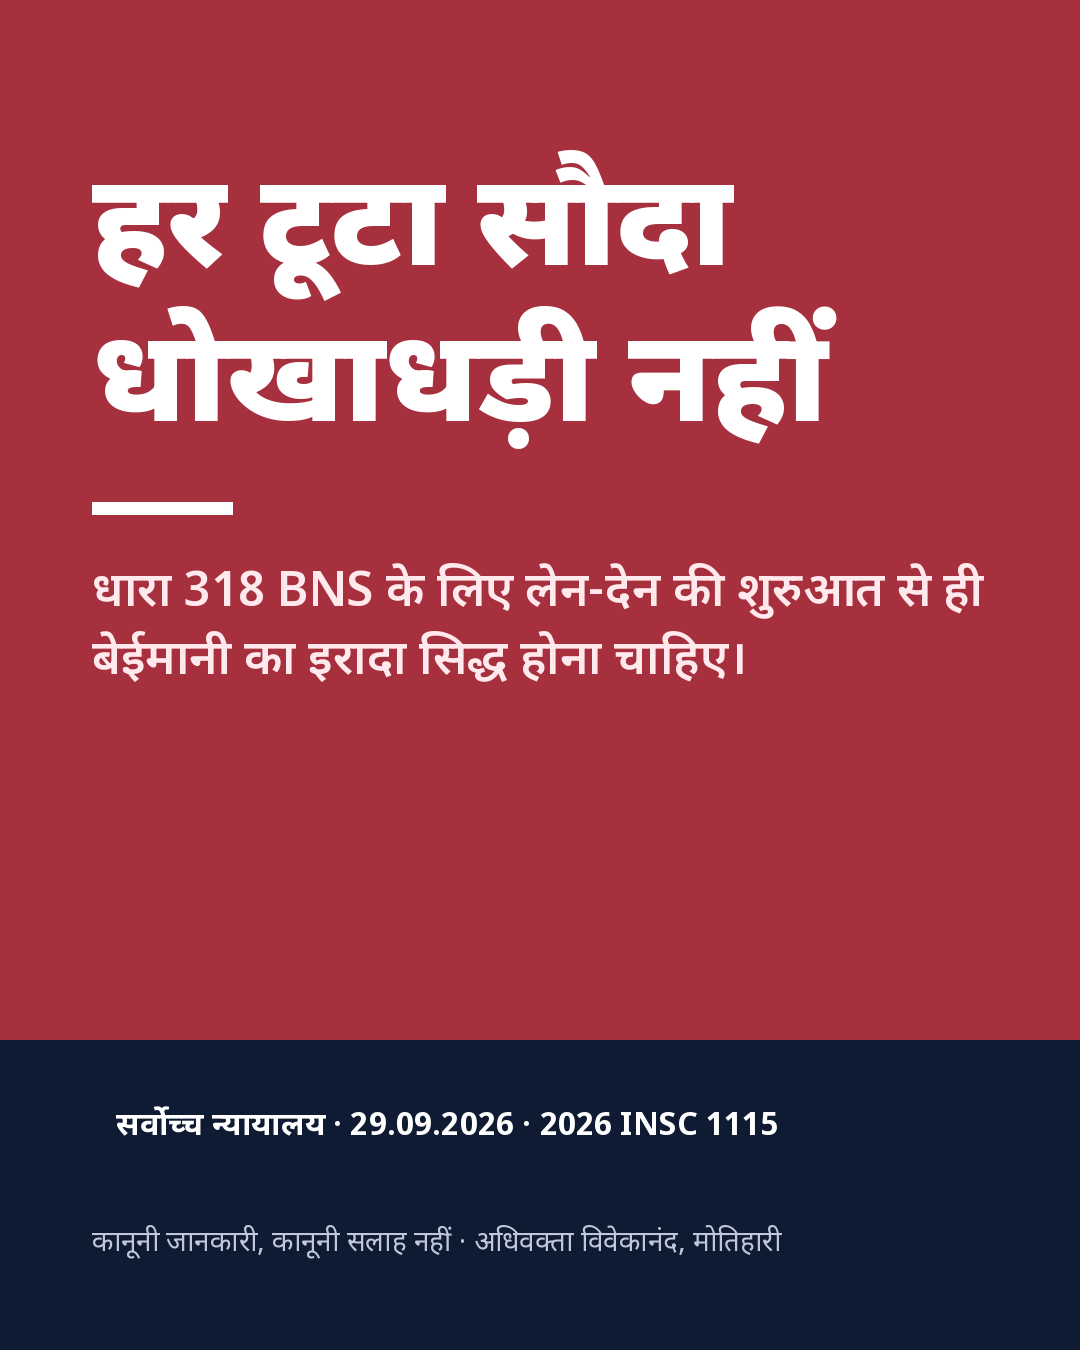
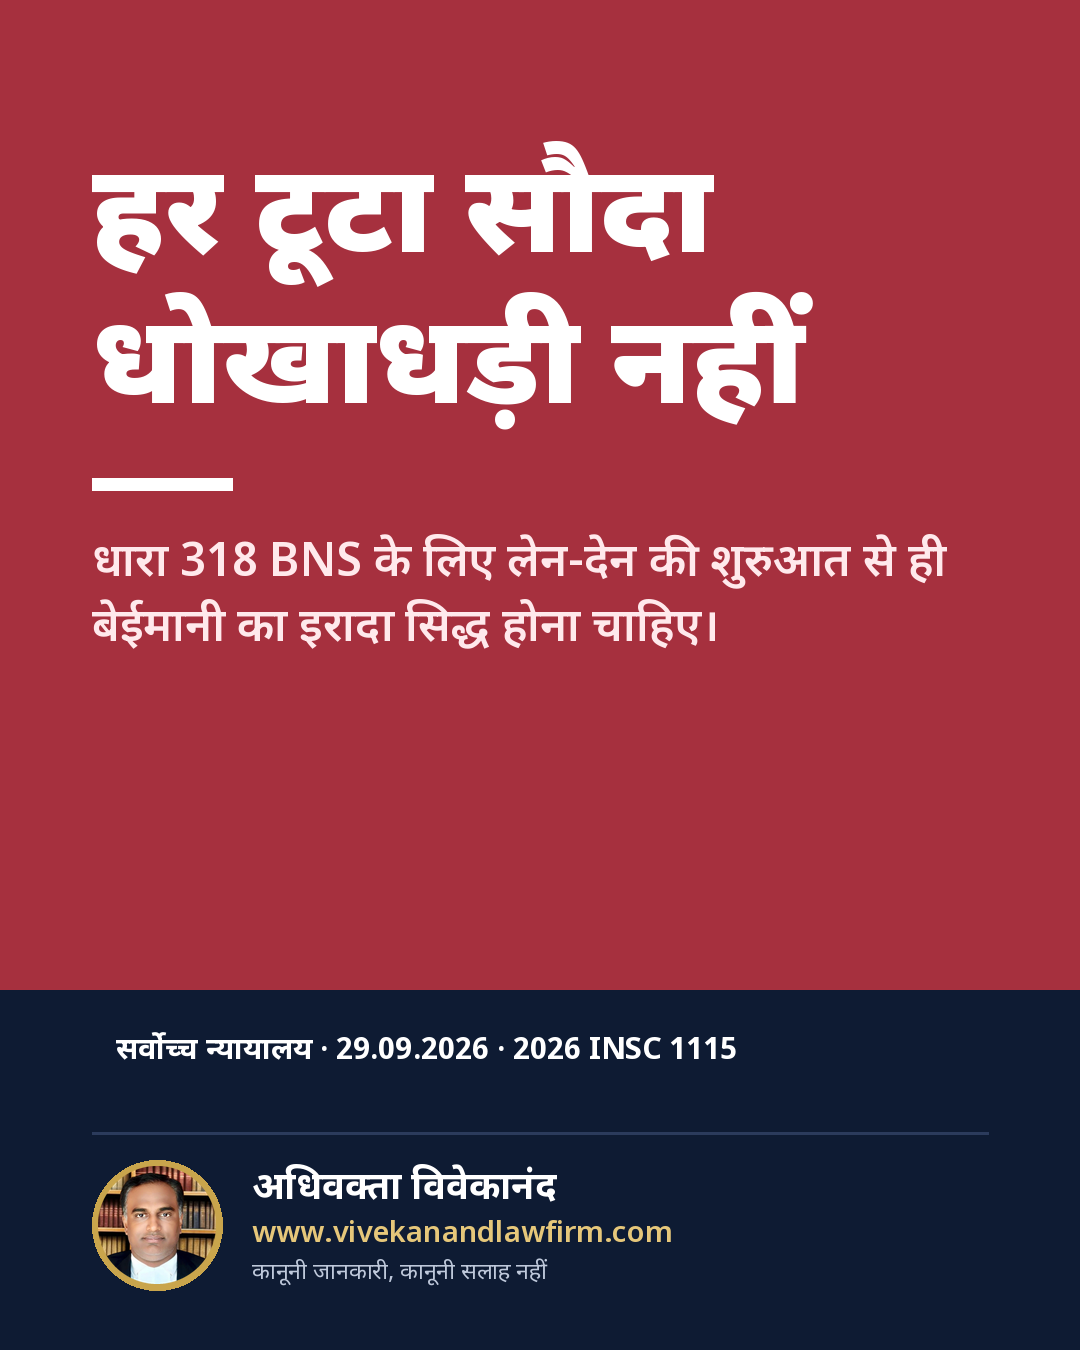
Post cards: signature bar with portrait, name and website
Claude-Session: https://claude.ai/code/session_01Si8MYnWgMiXYfd4s2mynEU

Changed region(s): [[0.0, 0.7156, 1.0, 0.9644], [0.0611, 0.0933, 0.7944, 0.3422], [0.0917, 0.3422, 0.9167, 0.5289]]

diff --git a/post-cards/_tools/render_card.py b/post-cards/_tools/render_card.py
@@ -7,7 +7,7 @@ spec = {
   "align": "left" | "center",              # optional, default per style
   "motif": "land|clock|phone|home|money|school|bag|book",   # S5 / S8
   "pages": [                                # 1 page = single image, 2-10 = carousel
-     {"headline": str, "subline": str, "tag": str, "footer": str, "hero": str (S6 only)}
+     {"headline": str, "subline": str, "tag": str, "hero": str (S6 only), "note": str (optional)}
      # carousel inner pages may use "body" instead of "subline" and "num" like "3/8"
   ]
 }
@@ -89,6 +89,44 @@ def tag_in_box(draw, x, y, w, h, text, color, weight='700', size=30, align='cent
         lx = x + (w - tw) / 2 if align == 'center' else x + 24
         draw.text((lx, ty + i * step), l, font=f, fill=hexc(color))
 
+
+
+# ---------------------------------------------------------------- signature bar
+SIG_NAME = "अधिवक्ता विवेकानंद"
+SIG_WEB = "www.vivekanandlawfirm.com"
+SIG_NOTE = "कानूनी जानकारी, कानूनी सलाह नहीं"
+SIG_TOP = 1160      # top of the portrait
+SIG_SIZE = 130      # portrait diameter
+_portrait = None
+
+
+def portrait():
+    global _portrait
+    if _portrait is None:
+        import os
+        p = os.path.join(os.path.dirname(FONT_DIR.rstrip('/')), 'portrait.png')
+        _portrait = Image.open(p).convert('RGBA') if os.path.exists(p) else False
+    return _portrait
+
+
+def sig_bar(img, d, x, cols, divider=None, divider_w=None, note=None, top=None):
+    """Elegant signature: gold-ringed portrait, name, website, one-line note."""
+    name_c, web_c, note_c, ring_c = cols
+    T = top or SIG_TOP
+    if divider:
+        d.rectangle([x, T - 28, x + (divider_w or (W - 2 * x)), T - 26], fill=hexc(divider))
+    pr = portrait()
+    tx = x
+    if pr:
+        ring = 4
+        d.ellipse([x, T, x + SIG_SIZE, T + SIG_SIZE], fill=hexc(ring_c))
+        inner = SIG_SIZE - 2 * (ring + 2)
+        ph = pr.resize((inner, inner), Image.LANCZOS)
+        img.paste(ph, (x + ring + 2, T + ring + 2), ph)
+        tx = x + SIG_SIZE + 30
+    d.text((tx, T + 4), SIG_NAME, font=F('700', 38), fill=hexc(name_c))
+    d.text((tx, T + 56), SIG_WEB, font=F('600', 29), fill=hexc(web_c))
+    d.text((tx, T + 98), note or SIG_NOTE, font=F('400', 23), fill=hexc(note_c))
 
 # ---------------------------------------------------------------- motifs (wordless)
 def motif(draw, kind, cx, cy, s, c1, c2, c3, line_only=False):
@@ -189,10 +227,12 @@ def render_page(st, pg, align, motif_kind, carousel, idx):
     d = ImageDraw.Draw(img)
     head = pg.get('headline', '')
     sub = pg.get('subline') or pg.get('body', '')
-    tag, foot, num, hero = pg.get('tag', ''), pg.get('footer', ''), pg.get('num', ''), pg.get('hero', '')
+    tag, num, hero = pg.get('tag', ''), pg.get('num', ''), pg.get('hero', '')
+    note = pg.get('note')  # optional replacement for the one-line note in the signature
     inner = carousel and idx > 0  # cover keeps full look
     M = 92  # side margin
     TW = W - 2 * M
+    GOLD = '#C9A54C'
 
     def number(col):
         if num:
@@ -202,14 +242,13 @@ def render_page(st, pg, align, motif_kind, carousel, idx):
     if st == 'S1':
         d.rectangle([0, 0, W, H], fill=hexc('#0E1B33'))
         d.rectangle([0, 0, 22, H], fill=hexc('#A6303E'))
-        d.rectangle([M, 210, M + 130, 222], fill=hexc('#A6303E'))
-        y = block(d, M, 270, TW, head, '800', 96, '#FFFFFF', align, 4, 1.3)
-        block(d, M, y + 40, TW, sub, '400', 46, '#BEC8DA', align, 6 if inner else 4, 1.42)
+        d.rectangle([M, 190, M + 130, 202], fill=hexc('#A6303E'))
+        y = block(d, M, 250, TW, head, '800', 94, '#FFFFFF', align, 4, 1.3)
+        block(d, M, y + 36, TW, sub, '400', 44, '#BEC8DA', align, 6 if inner else 4, 1.42)
         if tag:
-            pill(d, M, 1010, TW, 96, fill='#A6303E', r=20)
-            tag_in_box(d, M, 1010, TW, 96, tag, '#FFFFFF')
-        d.rectangle([M, 1190, W - M, 1192], fill=hexc('#3A4A6B'))
-        block(d, M, 1215, TW, foot, '400', 28, '#BEC8DA', align, 2, 1.3, 22)
+            pill(d, M, 1006, TW, 92, fill='#A6303E', r=20)
+            tag_in_box(d, M, 1006, TW, 92, tag, '#FFFFFF')
+        sig_bar(img, d, M, ('#FFFFFF', '#E6C77A', '#BEC8DA', GOLD), divider='#2B3B5C', note=note)
         number('#BEC8DA')
     elif st == 'S2':
         d.rectangle([0, 0, W, H], fill=hexc('#F4EEE2'))
@@ -217,108 +256,108 @@ def render_page(st, pg, align, motif_kind, carousel, idx):
         d.line([(60, 60), (170, 60)], fill=hexc('#C2892B'), width=10)
         d.line([(W - 60, H - 60), (W - 60, H - 170)], fill=hexc('#C2892B'), width=10)
         d.line([(W - 60, H - 60), (W - 170, H - 60)], fill=hexc('#C2892B'), width=10)
-        y = block(d, M, 250, TW, head, '700', 92, '#1F2633', align, 4, 1.32)
+        y = block(d, M, 230, TW, head, '700', 90, '#1F2633', align, 4, 1.32)
         rx = M if align == 'left' else (W - 160) // 2
         d.rectangle([rx, y + 30, rx + 160, y + 40], fill=hexc('#C2892B'))
-        block(d, M, y + 80, TW, sub, '400', 46, '#3B4252', align, 6 if inner else 4, 1.45)
+        block(d, M, y + 80, TW, sub, '400', 44, '#3B4252', align, 6 if inner else 4, 1.45)
         if tag:
-            pill(d, M, 1020, TW, 96, outline='#1F2633', r=6, width=3)
-            tag_in_box(d, M, 1020, TW, 96, tag, '#1F2633', '600')
-        block(d, M, 1180, TW, foot, '400', 28, '#5A5F69', align, 2, 1.3, 22)
+            pill(d, M, 1000, TW, 92, outline='#1F2633', r=6, width=3)
+            tag_in_box(d, M, 1000, TW, 92, tag, '#1F2633', '600')
+        sig_bar(img, d, M, ('#1F2633', '#A87420', '#5A5F69', '#C2892B'), divider='#D9CDB4', divider_w=720, note=note)
         number('#C2892B')
     elif st == 'S3':
         d.rectangle([0, 0, W, H], fill=hexc('#A6303E'))
-        y = block(d, M, 150 if not inner else 200, TW, head, '900', 128 if not inner else 92, '#FFFFFF', align, 4, 1.22, 60)
-        d.rectangle([M, y + 40, M + 140, y + 52] if align == 'left' else [W // 2 - 70, y + 40, W // 2 + 70, y + 52], fill=hexc('#FFFFFF'))
-        block(d, M, y + 100, TW, sub, '500', 48, '#FFE9EC', align, 6 if inner else 4, 1.42)
-        d.rectangle([0, 1040, W, 1350], fill=hexc('#0E1B33'))
+        y = block(d, M, 140 if not inner else 190, TW, head, '900', 124 if not inner else 90, '#FFFFFF', align, 4, 1.22, 60)
+        d.rectangle([M, y + 36, M + 140, y + 48] if align == 'left' else [W // 2 - 70, y + 36, W // 2 + 70, y + 48], fill=hexc('#FFFFFF'))
+        block(d, M, y + 92, TW, sub, '500', 46, '#FFE9EC', align, 6 if inner else 4, 1.42)
+        d.rectangle([0, 990, W, H], fill=hexc('#0E1B33'))
         if tag:
-            tag_in_box(d, M, 1080, TW, 100, tag, '#FFFFFF', '700', 32, 'center' if align == 'center' else 'left')
-        block(d, M, 1225, TW, foot, '400', 28, '#BEC8DA', align, 2, 1.3, 22)
+            tag_in_box(d, M, 1010, TW, 90, tag, '#FFFFFF', '700', 30, 'center' if align == 'center' else 'left')
+        sig_bar(img, d, M, ('#FFFFFF', '#E6C77A', '#BEC8DA', GOLD), divider='#2B3B5C', note=note)
         number('#FFFFFF')
     elif st == 'S4':
         d.rectangle([0, 0, W, H], fill=hexc('#0F4C5C'))
-        bx0, by0, bx1 = 70, 150, W - 70
-        f, lines, size = fit(d, head, '800', 90, bx1 - bx0 - 120, 4, 44)
+        bx0, by0, bx1 = 70, 140, W - 70
+        f, lines, size = fit(d, head, '800', 88, bx1 - bx0 - 120, 4, 44)
         step = int(size * 1.3)
         by1 = by0 + 90 + step * len(lines)
         d.rounded_rectangle([bx0, by0, bx1, by1], radius=60, fill=hexc('#DDEFE8'))
         tx = bx0 + 120 if align == 'left' else bx0 + 60
         d.polygon([(tx, by1 - 2), (tx + 90, by1 - 2), (tx + 10, by1 + 90)], fill=hexc('#DDEFE8'))
         block(d, bx0 + 60, by0 + 40, bx1 - bx0 - 120, head, '800', size, '#0B2F38', align, 4, 1.3, 44)
-        block(d, M, by1 + 140, TW, sub, '400', 46, '#FFFFFF', align, 6 if inner else 4, 1.45)
+        block(d, M, by1 + 130, TW, sub, '400', 44, '#FFFFFF', align, 6 if inner else 4, 1.45)
         if tag:
-            pill(d, M, 1030, TW, 92, outline='#DDEFE8', width=3)
-            tag_in_box(d, M, 1030, TW, 92, tag, '#DDEFE8', '600')
-        block(d, M, 1190, TW, foot, '400', 28, '#BFE3D8', align, 2, 1.3, 22)
+            pill(d, M, 1008, TW, 90, outline='#DDEFE8', width=3)
+            tag_in_box(d, M, 1008, TW, 90, tag, '#DDEFE8', '600')
+        sig_bar(img, d, M, ('#FFFFFF', '#DDEFE8', '#BFE3D8', '#DDEFE8'), divider='#2E6B7A', note=note)
         number('#DDEFE8')
     elif st == 'S5':
         if not inner:
-            d.rectangle([0, 0, W, 700], fill=hexc('#E9DCC4'))
-            d.ellipse([W - 330, 70, W - 130, 270], fill=hexc('#F4EEE2'))
-            motif(d, motif_kind, W // 2, 380, 250, '#0E1B33', '#A6303E', '#F7F1E6')
-            top = 750
+            d.rectangle([0, 0, W, 560], fill=hexc('#E9DCC4'))
+            d.ellipse([W - 300, 60, W - 120, 240], fill=hexc('#F4EEE2'))
+            motif(d, motif_kind, W // 2, 310, 210, '#0E1B33', '#A6303E', '#F7F1E6')
+            top = 600
         else:
             d.rectangle([0, 0, W, 40], fill=hexc('#E9DCC4'))
-            top = 180
-        d.rectangle([0, 700 if not inner else 40, W, H], fill=hexc('#FFFFFF'))
-        y = block(d, M, top, TW, head, '800', 80, '#0E1B33', align, 3, 1.28, 44)
-        block(d, M, y + 26, TW, sub, '400', 40, '#5A6475', align, 7 if inner else 2, 1.42, 30)
+            top = 170
+        d.rectangle([0, 560 if not inner else 40, W, H], fill=hexc('#FFFFFF'))
+        y = block(d, M, top, TW, head, '800', 76, '#0E1B33', align, 3, 1.28, 44)
+        block(d, M, y + 24, TW, sub, '400', 40, '#5A6475', align, 7 if inner else 2, 1.42, 30)
         if tag:
-            pill(d, M, 1110, TW, 84, fill='#A6303E', r=16)
-            tag_in_box(d, M, 1110, TW, 84, tag, '#FFFFFF', '700', 28)
-        block(d, M, 1225, TW, foot, '400', 26, '#5A6475', align, 2, 1.3, 22)
+            pill(d, M, 1030, TW, 82, fill='#A6303E', r=16)
+            tag_in_box(d, M, 1030, TW, 82, tag, '#FFFFFF', '700', 28)
+        sig_bar(img, d, M, ('#0E1B33', '#A6303E', '#5A6475', GOLD), divider='#E2E5EA', note=note)
         number('#0E1B33')
     elif st == 'S6':
         d.rectangle([0, 0, W, H], fill=hexc('#F7F7F5'))
         d.rectangle([0, 0, 40, H], fill=hexc('#0E1B33'))
-        d.rectangle([0, H - 300, W, H], fill=hexc('#0E1B33'))
+        d.rectangle([0, 1130, W, H], fill=hexc('#0E1B33'))
         if hero and not inner:
-            size = 380
+            size = 340
             while size > 120 and d.textlength(hero, font=F('900', size)) > W - 2 * M:
                 size -= 20
             bb = d.textbbox((0, 0), hero, font=F('900', size))
-            d.text((M - bb[0], 80 - bb[1]), hero, font=F('900', size), fill=hexc('#A6303E'))
-            top = 80 + (bb[3] - bb[1]) + 50
+            d.text((M - bb[0], 70 - bb[1]), hero, font=F('900', size), fill=hexc('#A6303E'))
+            top = 70 + (bb[3] - bb[1]) + 50
         else:
-            top = 200
+            top = 190
         d.rectangle([M, top - 22, M + 120, top - 12], fill=hexc('#0E1B33'))
-        y = block(d, M, top + 10, TW, head, '800', 80, '#0E1B33', align, 4, 1.28, 40)
-        block(d, M, y + 26, TW, sub, '400', 42, '#4E5666', align, 7 if inner else 3, 1.42, 30)
+        y = block(d, M, top + 10, TW, head, '800', 78, '#0E1B33', align, 3, 1.28, 40)
+        block(d, M, y + 24, TW, sub, '400', 42, '#4E5666', align, 7 if inner else 3, 1.42, 30)
         if tag:
-            pill(d, M, H - 250, TW, 88, fill='#A6303E', r=14)
-            tag_in_box(d, M, H - 250, TW, 88, tag, '#FFFFFF', '700', 28)
-        block(d, M, H - 125, TW, foot, '400', 27, '#BEC8DA', align, 2, 1.3, 20)
+            pill(d, M, 1030, TW, 82, fill='#A6303E', r=14)
+            tag_in_box(d, M, 1030, TW, 82, tag, '#FFFFFF', '700', 28)
+        sig_bar(img, d, M, ('#FFFFFF', '#E6C77A', '#BEC8DA', GOLD), note=note)
         number('#A6303E')
     elif st == 'S7':
         d.rectangle([0, 0, W, H], fill=hexc('#0B1220'))
-        g = hexc('#C9A54C')
+        g = hexc(GOLD)
         d.rectangle([40, 40, W - 40, H - 40], outline=g, width=3)
         d.rectangle([56, 56, W - 56, H - 56], outline=g, width=1)
-        d.polygon([(W // 2, 150), (W // 2 + 16, 166), (W // 2, 182), (W // 2 - 16, 166)], fill=g)
-        y = block(d, 120, 250, W - 240, head, '700', 92, '#FFFFFF', 'center', 4, 1.32)
-        d.rectangle([W // 2 - 70, y + 40, W // 2 + 70, y + 44], fill=g)
-        block(d, 120, y + 90, W - 240, sub, '400', 44, '#E6D3A0', 'center', 6 if inner else 4, 1.45)
+        d.polygon([(W // 2, 140), (W // 2 + 16, 156), (W // 2, 172), (W // 2 - 16, 156)], fill=g)
+        y = block(d, 120, 230, W - 240, head, '700', 90, '#FFFFFF', 'center', 4, 1.32)
+        d.rectangle([W // 2 - 70, y + 36, W // 2 + 70, y + 40], fill=g)
+        block(d, 120, y + 84, W - 240, sub, '400', 42, '#E6D3A0', 'center', 6 if inner else 4, 1.45)
         if tag:
-            tag_in_box(d, 120, 1040, W - 240, 90, tag, '#C9A54C', '600', 30)
-        block(d, 120, 1170, W - 240, foot, '400', 27, '#E6D3A0', 'center', 2, 1.3, 20)
-        number('#C9A54C')
+            tag_in_box(d, 120, 990, W - 240, 86, tag, GOLD, '600', 29)
+        sig_bar(img, d, 120, ('#FFFFFF', GOLD, '#E6D3A0', GOLD), divider='#3A3420', divider_w=W - 240, note=note, top=1136)
+        number(GOLD)
     else:  # S8
         d.rectangle([0, 0, W, H], fill=hexc('#E8F1FA'))
         if not inner:
-            d.ellipse([W - 330, 60, W - 70, 320], fill=hexc('#E0644F'))
-            motif(d, motif_kind, W - 200, 190, 85, '#FFFFFF', '#FFFFFF', '#FFFFFF', line_only=True)
-        cy0 = 360 if not inner else 160
-        f, lines, size = fit(d, head, '800', 86, TW - 100, 4, 44)
+            d.ellipse([W - 320, 60, W - 80, 300], fill=hexc('#E0644F'))
+            motif(d, motif_kind, W - 200, 180, 78, '#FFFFFF', '#FFFFFF', '#FFFFFF', line_only=True)
+        cy0 = 340 if not inner else 150
+        f, lines, size = fit(d, head, '800', 84, TW - 100, 4, 44)
         step = int(size * 1.3)
         cy1 = cy0 + 100 + step * len(lines)
         d.rounded_rectangle([M - 20, cy0, W - M + 20, cy1], radius=36, fill=hexc('#FFFFFF'))
         block(d, M + 30, cy0 + 45, TW - 60, head, '800', size, '#123A6B', align, 4, 1.3, 44)
-        block(d, M, cy1 + 50, TW, sub, '400', 44, '#123A6B', align, 6 if inner else 4, 1.45)
+        block(d, M, cy1 + 44, TW, sub, '400', 42, '#123A6B', align, 6 if inner else 4, 1.45)
         if tag:
-            pill(d, M, 1060, TW, 88, fill='#123A6B')
-            tag_in_box(d, M, 1060, TW, 88, tag, '#FFFFFF', '700', 28)
-        block(d, M, 1195, TW, foot, '400', 27, '#4A6688', align, 2, 1.3, 22)
+            pill(d, M, 1030, TW, 84, fill='#123A6B')
+            tag_in_box(d, M, 1030, TW, 84, tag, '#FFFFFF', '700', 28)
+        sig_bar(img, d, M, ('#123A6B', '#E0644F', '#4A6688', '#123A6B'), divider='#C9D9EA', note=note)
         number('#123A6B')
     return img
 
